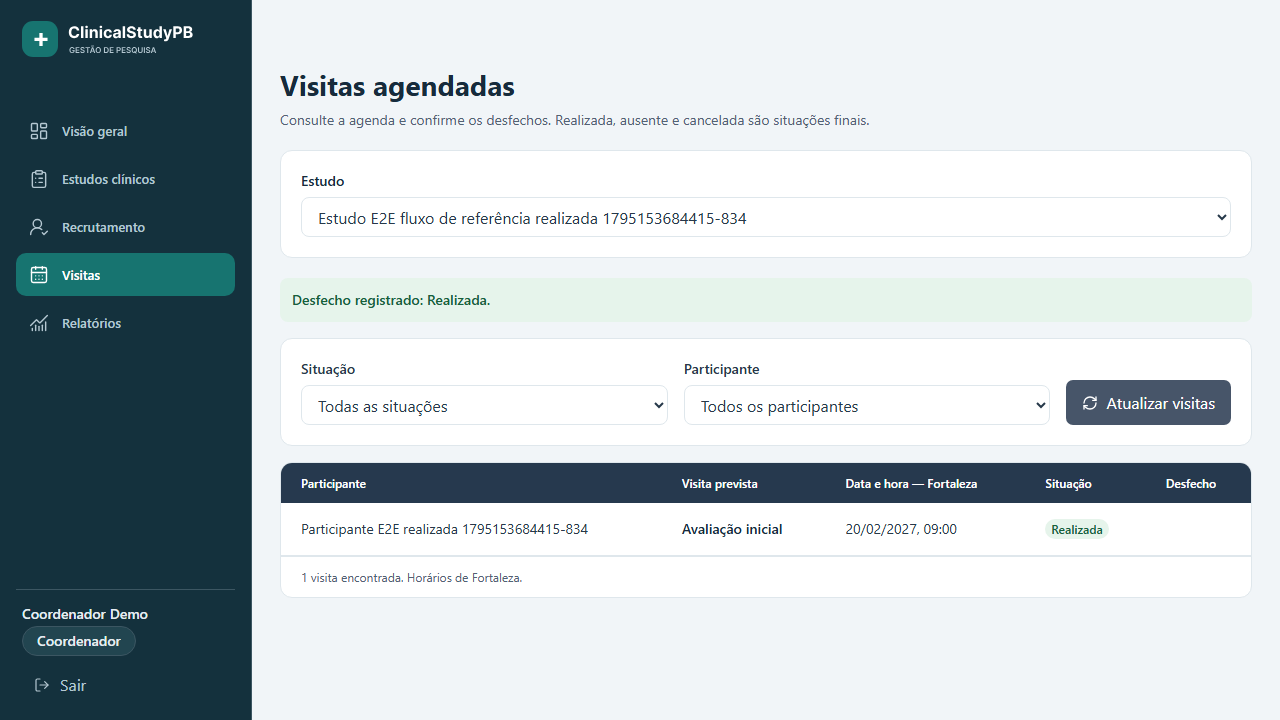
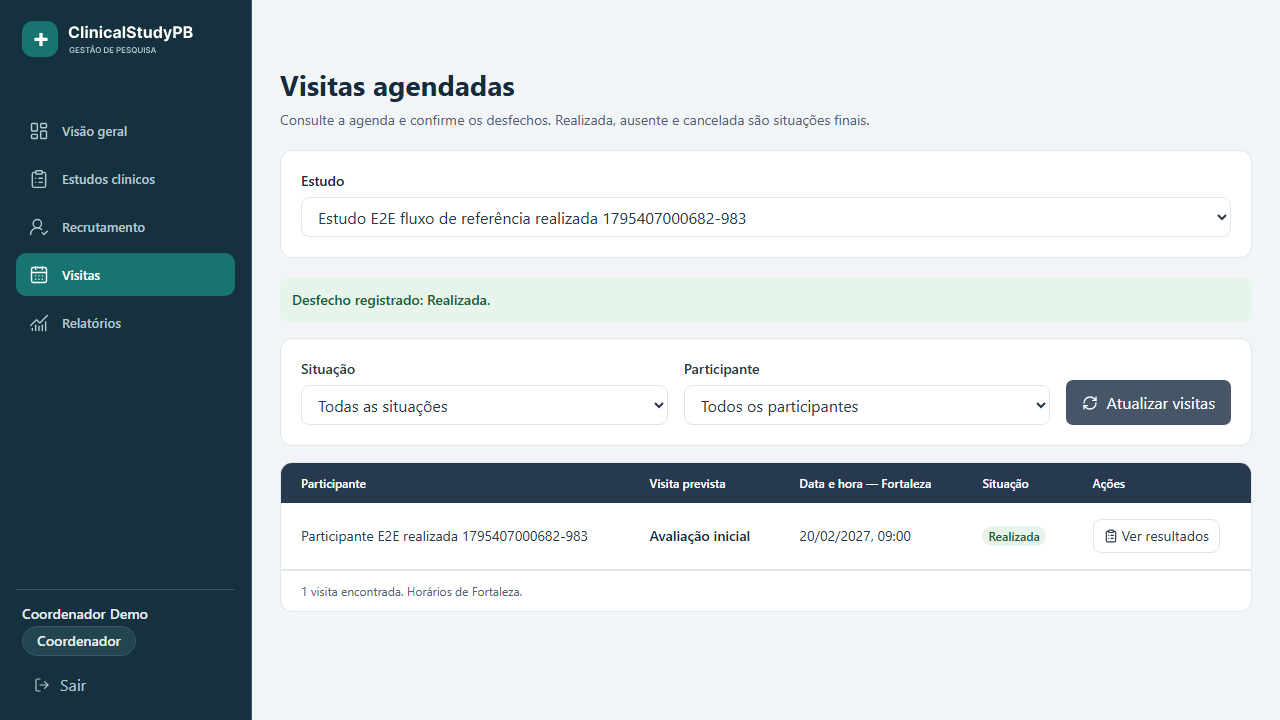
docs(testes): registra o fluxo de referência na base atual com cards (T19.5)
Os dois cenários passaram localmente e no job E2E Web da CI sobre a
development atual. As capturas da release foram geradas de novo com o
layout em cards.

diff --git a/docs/tests/rastreabilidade-fluxo-referencia-e2e.md b/docs/tests/rastreabilidade-fluxo-referencia-e2e.md
@@ -15,7 +15,7 @@ A suíte [`reference-flow.spec.ts`](../../web/e2e/flows/reference-flow.spec.ts) 
 
 | Identificador | Cenário | Etapas pela web (cada uma é um `test.step`) | Requisitos |
 | --- | --- | --- | --- |
-| E2E-REF-01 | `coordenador inclui o participante, agenda a visita e registra que foi realizada` | Em **Recrutamento**, a linha do candidato mostra "Aceitou". O coordenador inclui o participante e ele aparece no painel. Pelo botão **Agendar visita** do painel, agenda a "Avaliação inicial" para 20/02/2027 09:00 (Fortaleza), e a agenda mostra "Agendada". Em **Visitas**, registra **Realizada** com confirmação, e o selo passa a "Realizada". Depois de recarregar a página, a situação continua "Realizada" e a ação de desfecho não aparece mais. | RF11, RF12 e RF13 |
+| E2E-REF-01 | `coordenador inclui o participante, agenda a visita e registra que foi realizada` | Em **Recrutamento**, o card do candidato mostra "Aceitou". O coordenador inclui o participante e o card dele aparece no painel de participantes. Pelo botão **Agendar visita** do painel, agenda a "Avaliação inicial" para 20/02/2027 09:00 (Fortaleza), e a agenda mostra "Agendada". Em **Visitas**, registra **Realizada** com confirmação, e o selo passa a "Realizada". Depois de recarregar a página, a situação continua "Realizada" e a ação de desfecho não aparece mais. | RF11, RF12 e RF13 |
 | E2E-REF-02 | `agendar a mesma visita duas vezes mostra o erro da API` | O participante foi incluído e a visita foi agendada pela API. Pela web, a mesma visita prevista é agendada de novo. O modal mostra a mensagem da API ("Já existe um agendamento ativo ou concluído desta visita para o participante.", `409 VISIT_ALREADY_SCHEDULED`), continua aberto com os dados e a API segue com um único agendamento. | RF12 |
 
 O fluxo **cadastrar estudo → incluir → agendar** fica demonstrável assim:
@@ -44,6 +44,18 @@ Na CI, o job **E2E Web (Playwright)** roda em todos os PRs e pushes para a `deve
 - **Relatório HTML:** com as capturas anexadas, fica no artefato `playwright-report` (`web/playwright-report` e `web/test-results`).
 - **JSON:** artefato `resultados-e2e`. Alimenta o registro por teste em [docs/test-ci](../test-ci/README.md).
 
-## Resultado local
+## Seletores e layout atual
 
-A [suíte E2E completa](../test-runs/2026-11-20_02-48_T19-5_e2e-completa.md) aprovou 11 testes em 46 s com `--workers=1`, sem novas tentativas. Os dois cenários desta suíte levaram 8,4 s e 7,0 s. O teste ignorado é o do PBI-17, que continua em `test.fixme` nesta base até o PR #106 entrar.
+Desde o PR #101 (T24.3), candidatos e participantes aparecem em cards. O spec localiza:
+
+- **Candidato:** o card em `getByRole("list", { name: "Lista de candidatos" }).getByRole("listitem").filter({ hasText: nome })`.
+- **Participante incluído:** o título do card em `getByRole("list", { name: "Lista de participantes incluídos" })`.
+- **Visitas:** a agenda do participante e a lista de **Visitas** continuam em tabela, então seguem localizadas por `row`.
+
+## Resultado
+
+| Execução | Base | Resultado |
+| --- | --- | --- |
+| [Local, 23/11/2026 01:11](../test-runs/2026-11-23_01-11_T19-5_e2e-fluxo-referencia.md) | `development` (`008dabb`) + `ea5c423` | Os dois cenários passaram (65,6 s e 13,0 s). As capturas da release foram geradas de novo nesta execução. |
+| [CI, E2E Web (Playwright)](../test-ci/pull-requests/108/2026-11-23_00-50_ea5c423.md) | mesmo commit `ea5c423` | Os dois cenários passaram (3,4 s e 2,6 s); 21 de 22 testes E2E passaram. O ignorado é o do PBI-17 (`full-recruitment.spec.ts`), em `test.fixme` até o PR #106 entrar. |
+| [Local, 20/11/2026](../test-runs/2026-11-20_02-48_T19-5_e2e-completa.md) | `feat/visit-outcomes-t19-3` (PR #100), antes dos cards | 11 testes passaram em 46 s com `--workers=1`. Os dois cenários desta suíte levaram 8,4 s e 7,0 s. Substituída pelas execuções acima. |

diff --git a/releases/release2/evidencias/t19-5-fluxo-referencia/README.md b/releases/release2/evidencias/t19-5-fluxo-referencia/README.md
@@ -1,6 +1,6 @@
 # Evidências do fluxo de referência (T19.5)
 
-Capturas geradas pelo E2E [`reference-flow.spec.ts`](../../../../web/e2e/flows/reference-flow.spec.ts) em 20/11/2026, na execução local registrada em [`2026-11-20_02-48_T19-5_e2e-completa.md`](../../../../docs/test-runs/2026-11-20_02-48_T19-5_e2e-completa.md).
+Capturas geradas pelo E2E [`reference-flow.spec.ts`](../../../../web/e2e/flows/reference-flow.spec.ts) em 23/11/2026, já com candidatos e participantes em cards, na execução local registrada em [`2026-11-23_01-11_T19-5_e2e-fluxo-referencia.md`](../../../../docs/test-runs/2026-11-23_01-11_T19-5_e2e-fluxo-referencia.md). A base é a `development` atual.
 
 - **Ambiente:** backend e PostgreSQL reais da stack [`compose.e2e.yaml`](../../../../compose.e2e.yaml) e Chromium.
 - **Dados:** fictícios, criados pelo próprio teste.
@@ -10,7 +10,7 @@ A [rastreabilidade](../../../../docs/tests/rastreabilidade-fluxo-referencia-e2e.
 | Captura | Passo | Requisito |
 | --- | --- | --- |
 | [01-candidato-aceitou.png](01-candidato-aceitou.png) | Em **Recrutamento**, o candidato que aceitou o termo aparece como "Aceitou", com a inclusão disponível. | RF10 e RF11 |
-| [02-participante-incluido.png](02-participante-incluido.png) | Inclusão confirmada; o participante aparece no painel de vagas. | RF11 |
+| [02-participante-incluido.png](02-participante-incluido.png) | Inclusão confirmada; o card do participante aparece no painel de vagas. | RF11 |
 | [03-agendamento-preenchido.png](03-agendamento-preenchido.png) | Modal **Agendar visita** com a visita prevista e a data no horário de Fortaleza. | RF12 |
 | [04-visita-agendada.png](04-visita-agendada.png) | Agenda do participante com a visita "Agendada". | RF12 |
 | [05-confirmacao-realizada.png](05-confirmacao-realizada.png) | Confirmação do desfecho **Realizada** em **Visitas**. | RF13 |

diff --git a/docs/test-runs/2026-11-23_01-11_T19-5_e2e-fluxo-referencia.md b/docs/test-runs/2026-11-23_01-11_T19-5_e2e-fluxo-referencia.md
@@ -1,0 +1,12 @@
+# T19.5: E2E do fluxo de referência após atualizar com a development (Playwright)
+
+- **Terminou em:** 2026-11-23 01:11
+- **Comando:** `npx playwright test e2e/flows/reference-flow.spec.ts --workers=1` em `web/`, com `E2E_EVIDENCE_DIR` apontando para `releases/release2/evidencias/t19-5-fluxo-referencia`. A stack é a de [`compose.e2e.yaml`](../../compose.e2e.yaml), reconstruída com esta base e com a seed padrão, e a web compilada é servida por `vite preview` com `API_PROXY_TARGET=http://localhost:18080`.
+- **Base:** branch `test/t19-5-e2e-fluxo-referencia` atualizada com a `development` (`008dabb`, já com os PRs #99, #100 e #101), commit `ea5c423`, com os seletores de cards
+- **Duração:** 1,5 min (`stats.duration` do `test-reports/playwright.json`); execução local, sem novas tentativas
+
+| Teste | Resultado | Observação |
+|---|---|---|
+| `flows/reference-flow.spec.ts › fluxo de referência: incluir, agendar e registrar desfecho › coordenador inclui o participante, agenda a visita e registra que foi realizada` | Passou | 65,6 s. Candidato localizado pelo card em "Lista de candidatos" e participante pelo card em "Lista de participantes incluídos" |
+| `flows/reference-flow.spec.ts › fluxo de referência: incluir, agendar e registrar desfecho › agendar a mesma visita duas vezes mostra o erro da API` | Passou | 13,0 s |
+| **Total de testes: 2** | **Passaram: 2 (100,0%); falharam: 0 (0,0%)** | |
